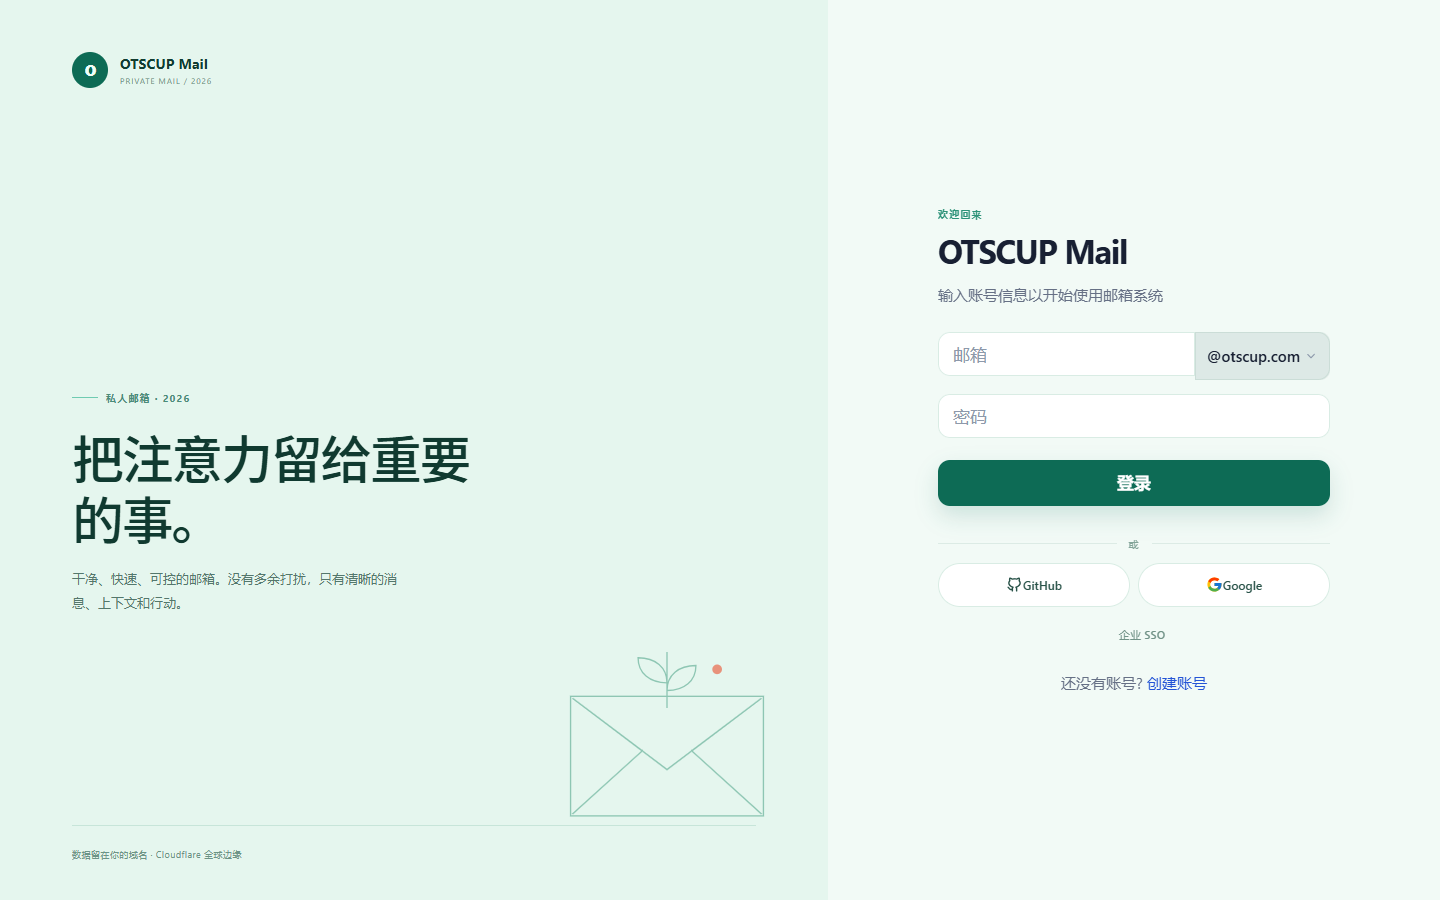
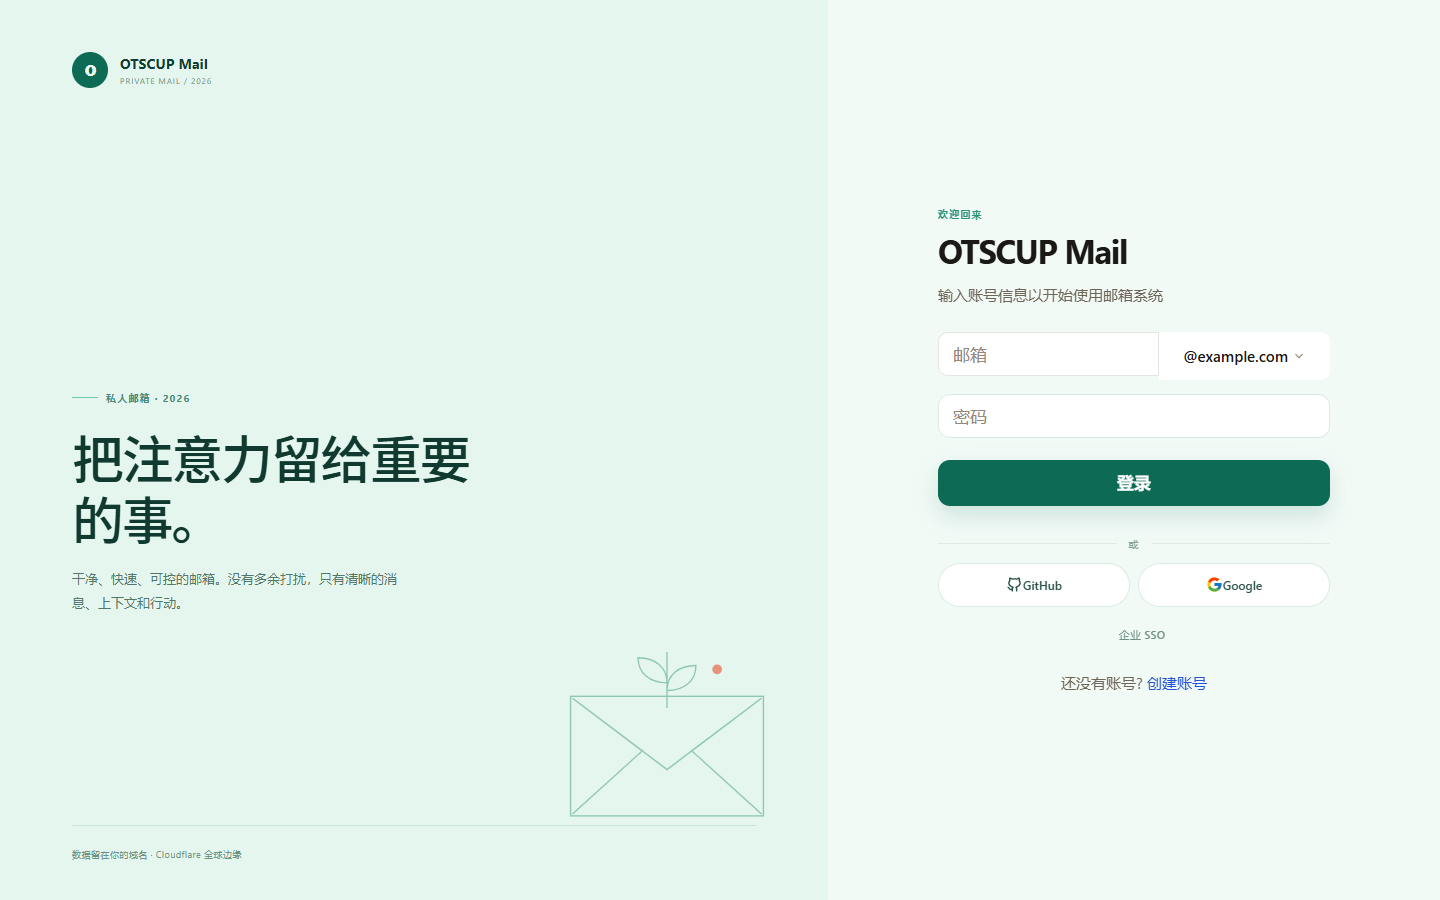
Polish login account field and refresh screenshots

diff --git a/mail-vue/src/views/login/index.vue b/mail-vue/src/views/login/index.vue
@@ -2161,4 +2161,30 @@ function submitRegister() {
   }
   #login-box[data-login-theme="gala"] .form-title { font-size: 40px !important; }
 }
+
+/* 账号输入：整条保持和密码框一样的底色，域名选择放在框内右侧，不再单独做灰色 append。 */
+#login-box[data-login-theme] .container .email-input :deep(.el-input__wrapper) {
+  background: #fff !important;
+  border: 0 !important;
+  border-radius: 10px 0 0 10px !important;
+  box-shadow: inset 0 0 0 1px var(--rd-line) !important;
+}
+#login-box[data-login-theme] .container .email-input :deep(.el-input-group__append) {
+  padding: 0 12px !important;
+  background: #fff !important;
+  border: 0 !important;
+  border-radius: 0 10px 10px 0 !important;
+  box-shadow: none !important;
+}
+#login-box[data-login-theme] .container .email-input :deep(.el-input-group__append) .domain-picker {
+  background: transparent !important;
+  color: var(--rd-text) !important;
+  max-width: 150px;
+  overflow: hidden;
+}
+#login-box[data-login-theme] .container .domain-picker-label {
+  overflow: hidden;
+  text-overflow: ellipsis;
+  white-space: nowrap;
+}
 </style>
